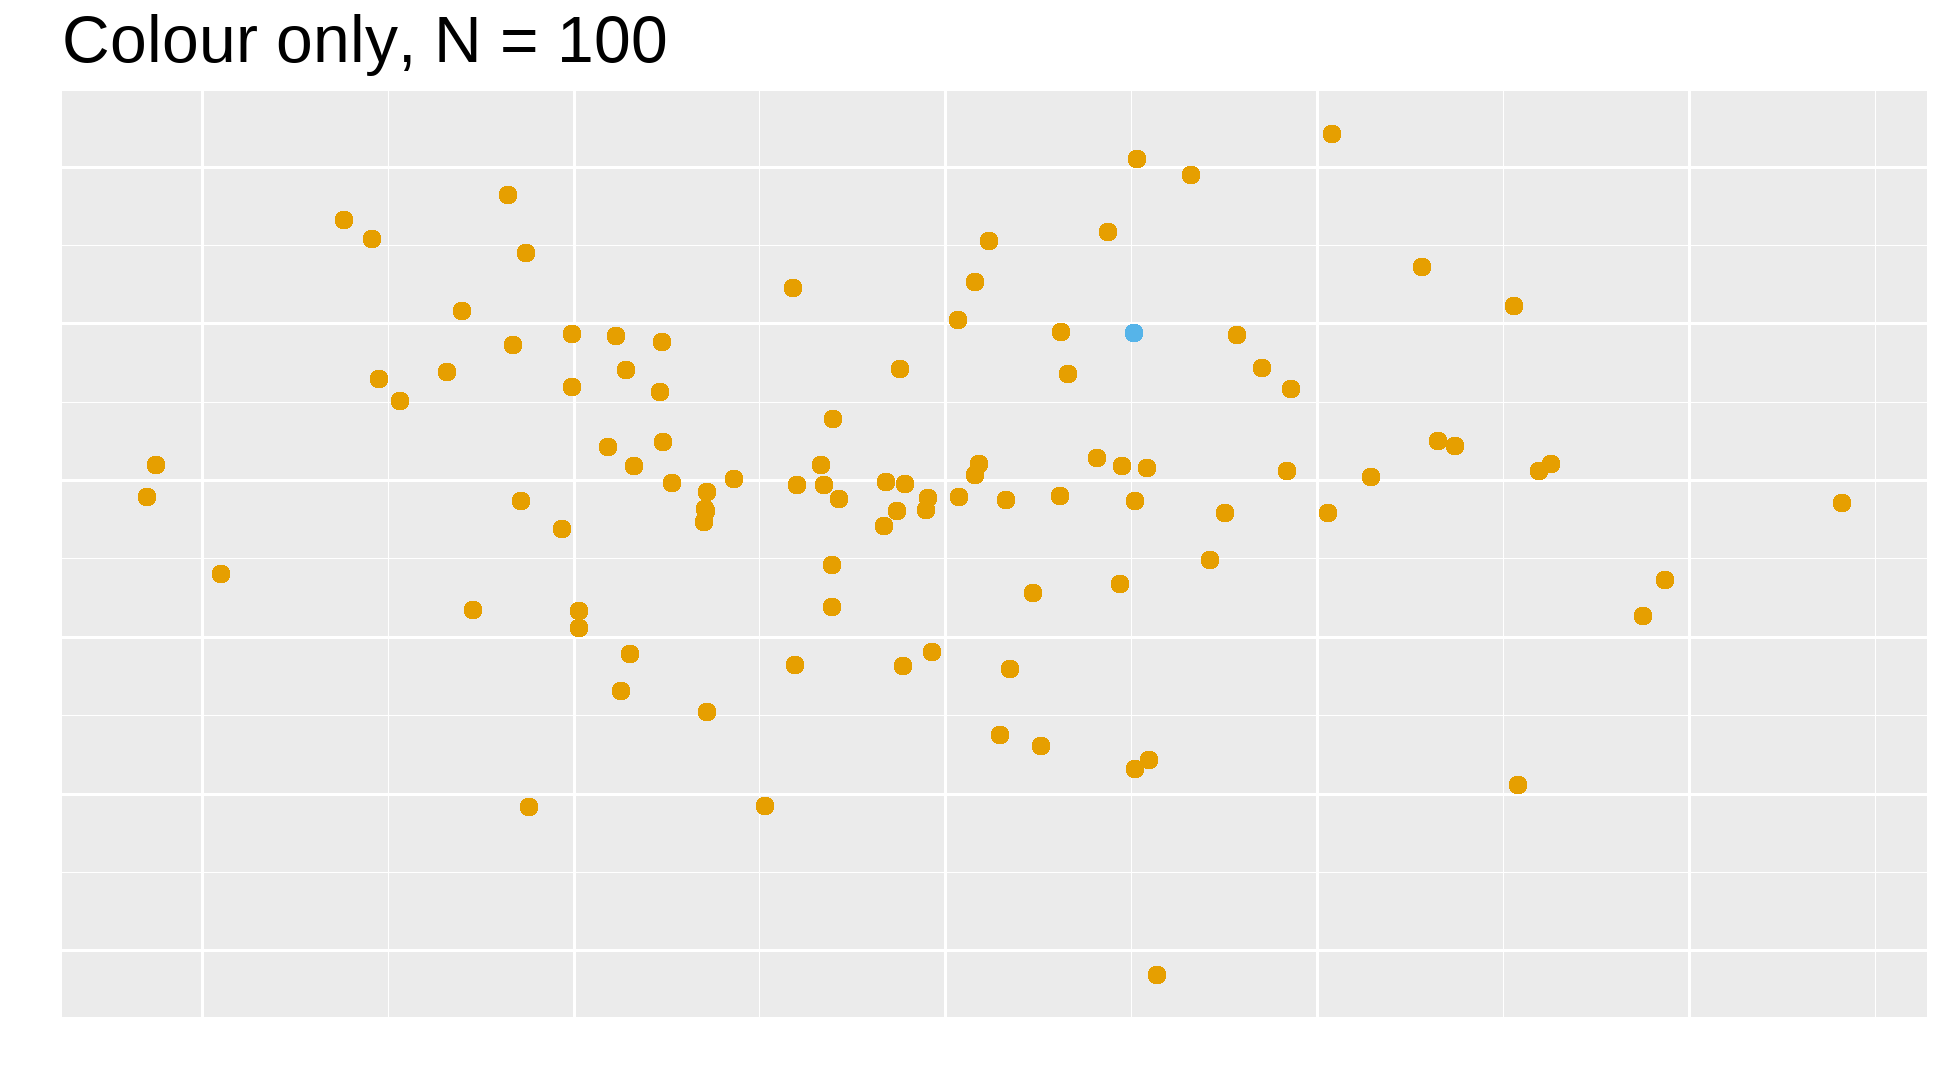
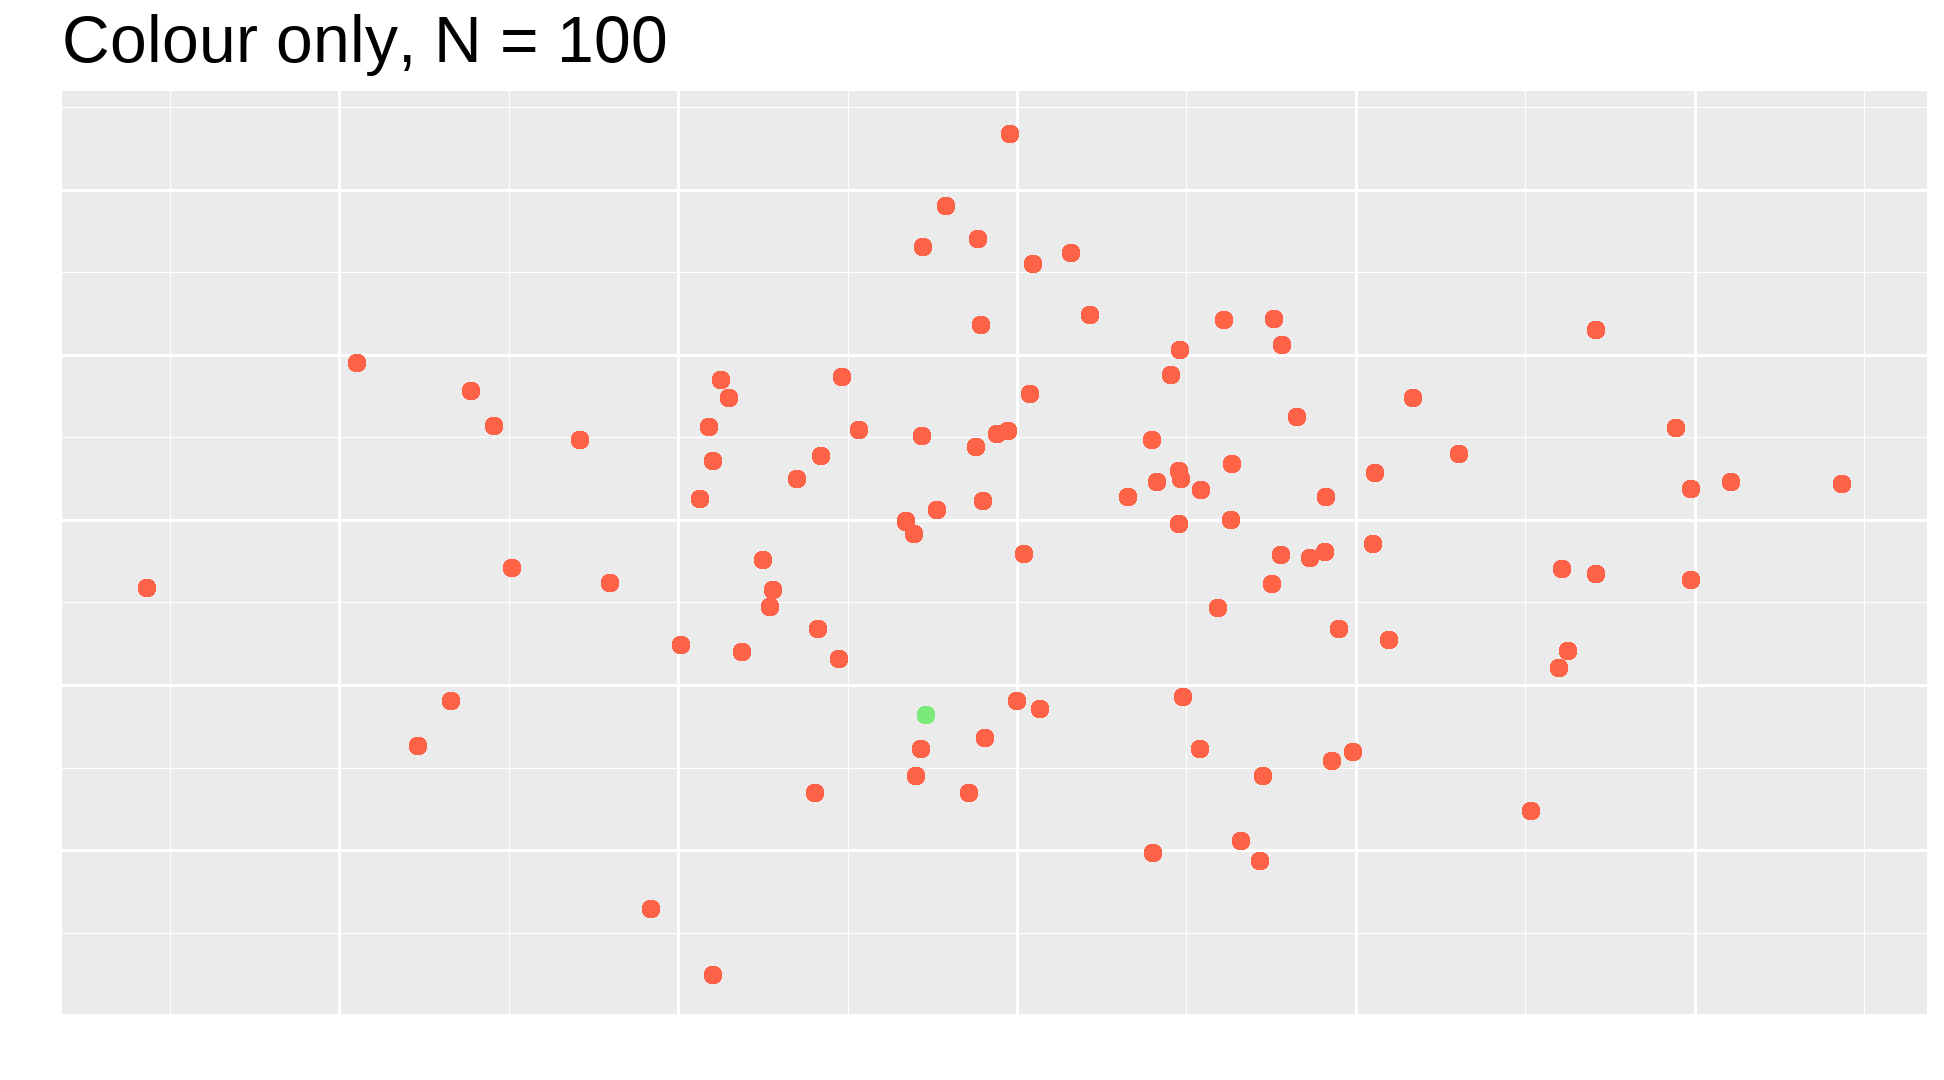
added coloublidness section

diff --git a/dc-exercises.html b/dc-exercises.html
@@ -14,7 +14,7 @@ class: center, middle, inverse, title-slide
 
 # Data visualisation with ggplot2
 ## Data Carpentry: R for Social Sciences
-### 2021-10-29 <em>(Updated: 2021-10-16)</em>
+### 2021-10-29 <em>(Updated: 2021-10-18)</em>
 
 ---
 
@@ -63,7 +63,7 @@ from Claus Wilke's [*Fundamentals of Data Visualization*](https://clauswilke.com
 ---
 class: middle
 
-## Find the blue dot ✨
+## Find the green dot 👶
 
 
 
@@ -77,7 +77,7 @@ from Kieran Healy's [*Data Visualization: A practical introduction*](https://soc
 ---
 class: middle
 
-## Find the blue dot 🎆
+## Find the green dot 👩🎓
 
 
 &lt;img src="dc-exercises_files/figure-html/blue-dot2-1.png" width="100%" /&gt;
@@ -87,11 +87,44 @@ from Kieran Healy's [*Data Visualization: A practical introduction*](https://soc
 ---
 class: middle
 
-## Find the blue dot 🚀
+## Find the green dot 👽
 
 &lt;img src="dc-exercises_files/figure-html/blue-dot3-1.png" width="100%" /&gt;
 
 from Kieran Healy's [*Data Visualization: A practical introduction*](https://socviz.co/)
+
+
+---
+
+## Colour considerations
+
+In the previous game, people with the most common type of colour-blindness would have struggled to perceive the colour distinction!
+
+![](images/colour-blindness.png)
+
+---
+
+## Viridis palettes
+
+
+.pull-left[
+
+Are relatively colourblind-friendly...
+
+&lt;img src="images/viridis-palettes.png" width="100%" height="50%" /&gt;
+]
+
+--
+
+.pull-right[
+
+... and they're pretty 😻
+
+&lt;img src="dc-exercises_files/figure-html/viridis-plot-1.png" width="100%" /&gt;
+]
+
+from the [`viridisLite` site](https://sjmgarnier.github.io/viridisLite/reference/viridis.html) by Simon Garnier
+
 
 ---
 class: center, middle
@@ -170,7 +203,7 @@ class: center, middle
 
 ## Exercise 1
 
-🕔 **10 mins**
+🕤 **10 mins**
 
 Create a scatter plot of `rooms` by `village` with the `respondant_wall_type`
 showing in different colours. 
@@ -179,7 +212,7 @@ Does this seem like a good way to display the relationship between these variabl
 
 What other kinds of plots might you use to show this type of data?
 
-<div class="countdown" id="timer_616b1331" style="right:0;bottom:0;" data-warnwhen="0">
+<div class="countdown" id="timer_616d52bf" style="right:0;bottom:0;" data-warnwhen="0">
 <code class="countdown-time"><span class="countdown-digits minutes">10</span><span class="countdown-digits colon">:</span><span class="countdown-digits seconds">00</span></code>
 </div>
 
@@ -207,7 +240,7 @@ class: center, middle
 
 ## Exercise 2
 
-🕐 **5 mins**
+🕑 **5 mins**
 
 Boxplots are useful summaries, but hide the shape of the distribution. For example,
 if the distribution is bimodal, we would not see it in a boxplot.
@@ -215,7 +248,7 @@ if the distribution is bimodal, we would not see it in a boxplot.
 Replace the box plot with a violin plot  
 see `geom_violin()`
 
-<div class="countdown" id="timer_616b148b" style="right:0;bottom:0;" data-warnwhen="0">
+<div class="countdown" id="timer_616d52f0" style="right:0;bottom:0;" data-warnwhen="0">
 <code class="countdown-time"><span class="countdown-digits minutes">05</span><span class="countdown-digits colon">:</span><span class="countdown-digits seconds">00</span></code>
 </div>
 
@@ -239,7 +272,7 @@ class: center, middle
 
 ## Exercise 3
 
-🕘 **10 mins**
+🕝 **10 mins**
 
 Create a bar plot showing the proportion of respondents in each village who are 
 or are not part of an irrigation association (`memb_assoc`). 
@@ -248,7 +281,7 @@ Include only respondents who answered that question in the calculations and plot
 
 Which village had the lowest proportion of respondents in an irrigation association?
 
-<div class="countdown" id="timer_616b12fc" style="right:0;bottom:0;" data-warnwhen="0">
+<div class="countdown" id="timer_616d5448" style="right:0;bottom:0;" data-warnwhen="0">
 <code class="countdown-time"><span class="countdown-digits minutes">10</span><span class="countdown-digits colon">:</span><span class="countdown-digits seconds">00</span></code>
 </div>
 
@@ -292,14 +325,14 @@ class: center, middle
 
 ## Exercise 4
 
-⏰ **5 mins**
+🕒 **5 mins**
 
 Experiment with at least two different themes. Build the previous plot using each
 of those themes. 
 
 Which do you like best?
 
-<div class="countdown" id="timer_616b1589" style="right:0;bottom:0;" data-warnwhen="0">
+<div class="countdown" id="timer_616d5356" style="right:0;bottom:0;" data-warnwhen="0">
 <code class="countdown-time"><span class="countdown-digits minutes">05</span><span class="countdown-digits colon">:</span><span class="countdown-digits seconds">00</span></code>
 </div>
 
